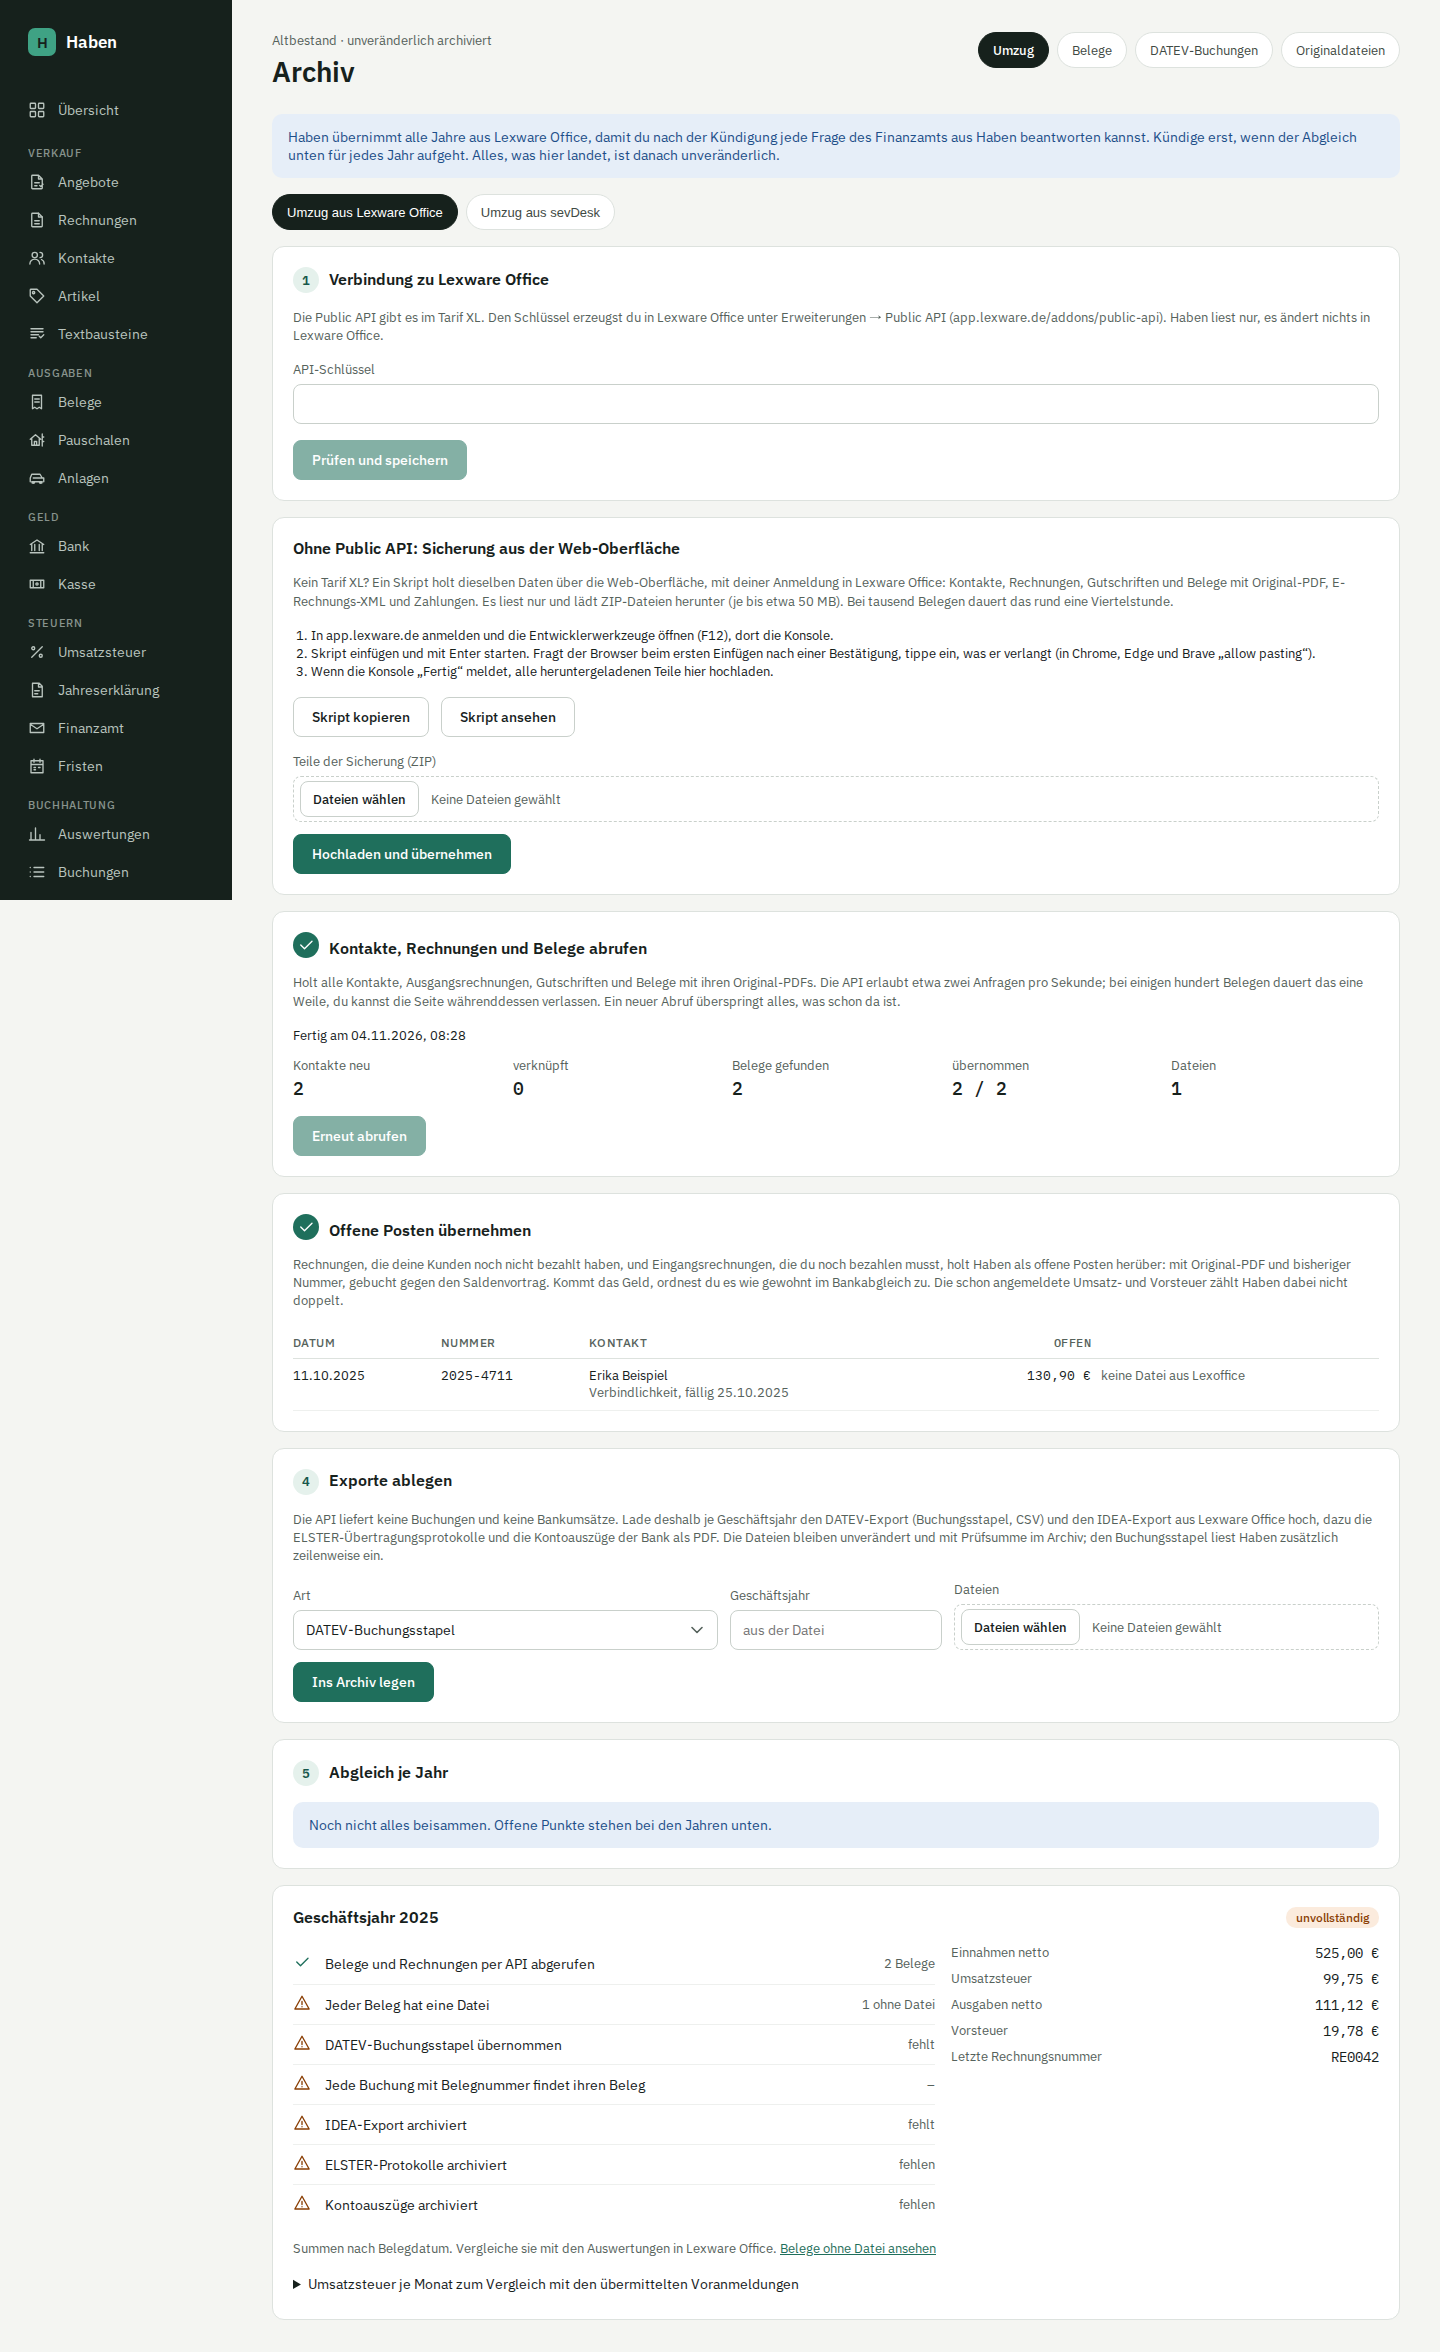
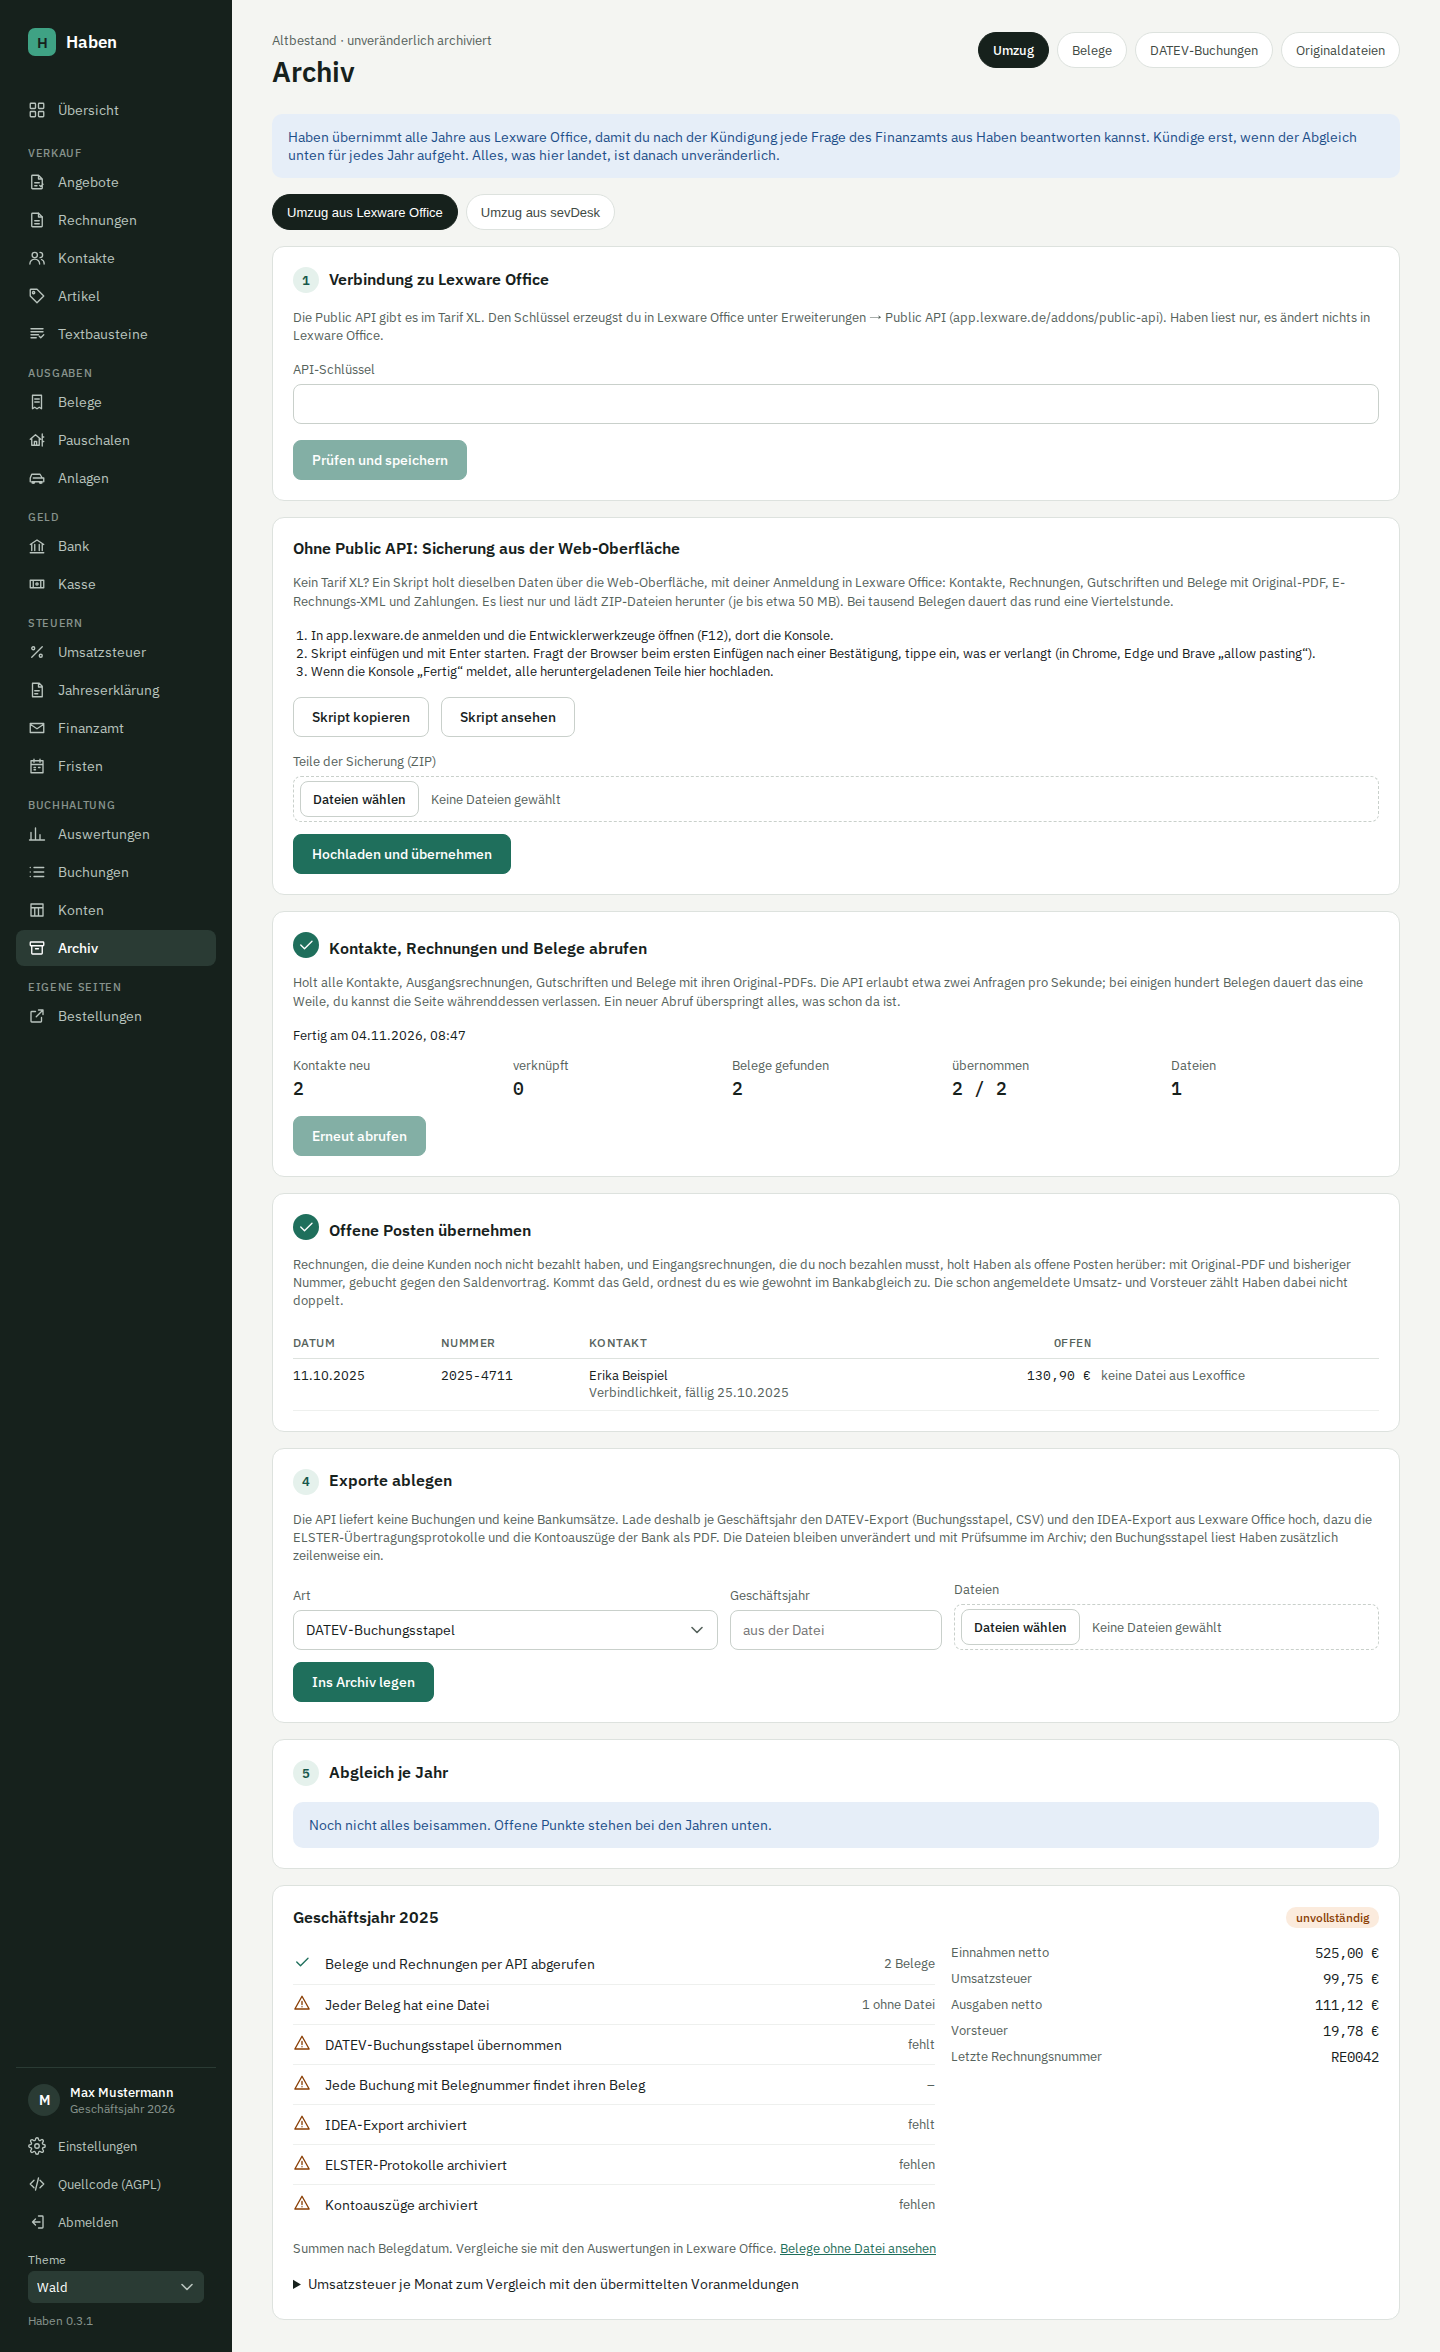
Screenshots: Seitenleiste in ganzseitigen Bildern bis unten (#236)
* Screenshots: Seitenleiste in ganzseitigen Bildern bis unten

Die Seitenleiste ist sticky mit height: 100vh. Playwright nimmt bei fullPage
die ganze Seite auf, lässt das Fenster aber so hoch, wie es ist; die
Seitenleiste endete deshalb nach einer Fensterhöhe mitten im Bild, und ihre
unteren Einträge (Konten, Archiv, Einstellungen) fehlten, sichtbar im
Archiv-Bild der Doku. fullPageScreenshot (e2e/daten.ts) macht das Fenster für
die Aufnahme so hoch wie die Seite und stellt es danach wieder her; die
Doku-Bilder, seiten.spec.ts und app.spec.ts nutzen es.

Claude-Session: https://claude.ai/code/session_01Y3rdfajh32hGPzJ6NPwq9K

* Screenshots erneuert

---------

Changed region(s): [[0.0, 0.3724, 0.1875, 1.0]]

diff --git a/apps/web/e2e/app.spec.ts b/apps/web/e2e/app.spec.ts
@@ -1,7 +1,7 @@
 import { expect, test, type Browser, type Page } from "@playwright/test";
 import { zipSync } from "fflate";
 import { mkdirSync, readFileSync } from "node:fs";
-import { day, EIGENE_SEITE, fakeEigeneSeite, firstLink, SESSION, SHOTS, USER, YEAR } from "./daten.ts";
+import { day, EIGENE_SEITE, fakeEigeneSeite, firstLink, fullPageScreenshot, SESSION, SHOTS, USER, YEAR } from "./daten.ts";
 
 /**
  * Ein Durchlauf wie im echten Betrieb, in einer leeren Datenbank: Konto einrichten, Kunden anlegen,
@@ -682,7 +682,7 @@ test("Angebot festschreiben, annehmen und abrechnen", async () => {
   const antwort = page.getByRole("region", { name: /Antwort des Kunden/ });
   await expect(antwort).toContainText("Offen", { timeout: 30_000 });
   await expect(page.getByText("2.094,40\u00a0€").first()).toBeVisible();
-  await page.screenshot({ path: `${SHOTS}/desktop/03b-angebot.png`, fullPage: true });
+  await fullPageScreenshot(page, { path: `${SHOTS}/desktop/03b-angebot.png` });
 
   // Abschlag aus dem Angebot: Rechnungsart und Angebot vorbelegt, den Betrag trägt man selbst ein; danach wieder verwerfen
   const angebotUrl = page.url();
@@ -775,7 +775,7 @@ test("Rechnung per E-Mail: Zugang einrichten, Vorlage, Fehler im Protokoll", asy
   await expect(formular.getByLabel("Betreff", { exact: true })).toHaveValue(/^Rechnung \d{4}-\d{3} von Mustermann IT/);
   await expect(formular.getByText(/Anhang: Rechnung-\d{4}-\d{3}\.pdf/)).toBeVisible();
   await formular.getByLabel("An", { exact: true }).fill("buchhaltung@nordwerk.example");
-  await page.screenshot({ path: `${SHOTS}/desktop/04b-rechnung-email.png`, fullPage: true });
+  await fullPageScreenshot(page, { path: `${SHOTS}/desktop/04b-rechnung-email.png` });
   await formular.getByRole("button", { name: "Jetzt senden" }).click();
   await expect(formular.getByRole("alert")).toContainText("Nicht gesendet");
   await page.reload();

diff --git a/apps/web/e2e/daten.ts b/apps/web/e2e/daten.ts
@@ -1,4 +1,4 @@
-import type { Page } from "@playwright/test";
+import type { Page, PageScreenshotOptions } from "@playwright/test";
 
 /**
  * Was app.spec.ts anlegt und die Tests im Projekt „mit-daten“ (playwright.config.ts) danach lesen.
@@ -60,4 +60,21 @@ export async function fakeEigeneSeite(p: Page): Promise<void> {
         <p>3 Bestellungen warten auf den Versand.</p><button type="button">Briefmarke drucken</button></body></html>`,
     }),
   );
+}
+
+/**
+ * Screenshot der ganzen Seite mit durchgehender Seitenleiste. `fullPage` von Playwright lässt das Fenster so hoch, wie es
+ * ist; die Seitenleiste (sticky, `height: 100vh`) endete dann nach einer Fensterhöhe mitten im Bild, und ihre unteren
+ * Einträge fehlten. Deshalb wird das Fenster für die Aufnahme so hoch wie die Seite und danach wieder wie vorher.
+ */
+export async function fullPageScreenshot(p: Page, options: Omit<PageScreenshotOptions, "fullPage">): Promise<void> {
+  const viewport = p.viewportSize();
+  if (!viewport) throw new Error("Screenshot ohne feste Fenstergröße");
+  const height = await p.evaluate(() => document.documentElement.scrollHeight);
+  await p.setViewportSize({ width: viewport.width, height: Math.max(height, viewport.height) });
+  try {
+    await p.screenshot(options);
+  } finally {
+    await p.setViewportSize(viewport);
+  }
 }

diff --git a/apps/web/e2e/seiten.spec.ts b/apps/web/e2e/seiten.spec.ts
@@ -1,6 +1,6 @@
 import { expect, type Page, test } from "@playwright/test";
 import { mkdirSync } from "node:fs";
-import { ANONYMOUS, day, fakeEigeneSeite, firstLink, SESSION, SHOTS, YEAR } from "./daten.ts";
+import { ANONYMOUS, day, fakeEigeneSeite, firstLink, fullPageScreenshot, SESSION, SHOTS, YEAR } from "./daten.ts";
 
 /**
  * Von jeder Seite ein Screenshot (Desktop und Handy) unter test-results/screenshots, mit den Daten aus
@@ -87,7 +87,7 @@ for (const [device, viewport] of [
           const overflow = await page.evaluate(() => document.documentElement.scrollWidth - document.documentElement.clientWidth);
           expect.soft(overflow, `${path} ist nicht breiter als das Handy`).toBeLessThanOrEqual(1);
         }
-        await page.screenshot({ path: `${SHOTS}/${device}/${String(index + 1).padStart(2, "0")}-${name}.png`, fullPage: true });
+        await fullPageScreenshot(page, { path: `${SHOTS}/${device}/${String(index + 1).padStart(2, "0")}-${name}.png` });
       }
       if (device === "mobil" && half === 1) {
         // Menü auf dem Handy: aufklappen, Seite wählen, schließt wieder

diff --git a/apps/web/e2e/zz-doku-screenshots.spec.ts b/apps/web/e2e/zz-doku-screenshots.spec.ts
@@ -1,5 +1,5 @@
 import { expect, test, type Page } from "@playwright/test";
-import { USER } from "./daten.ts";
+import { fullPageScreenshot, USER } from "./daten.ts";
 
 /**
  * Die Bilder in README und Doku (docs/screenshot-*.png), aufgenommen mit den Daten, die app.spec.ts
@@ -42,7 +42,8 @@ async function go(path: string) {
 
 async function shot(name: string, fullPage = false) {
   // Kein blinkender Cursor, keine halb abgelaufene Animation im Bild
-  await page.screenshot({ path: `${DOCS}/screenshot-${name}.png`, fullPage, animations: "disabled", caret: "hide" });
+  const options = { path: `${DOCS}/screenshot-${name}.png`, animations: "disabled", caret: "hide" } as const;
+  await (fullPage ? fullPageScreenshot(page, options) : page.screenshot(options));
 }
 
 test("Übersicht", async () => {
